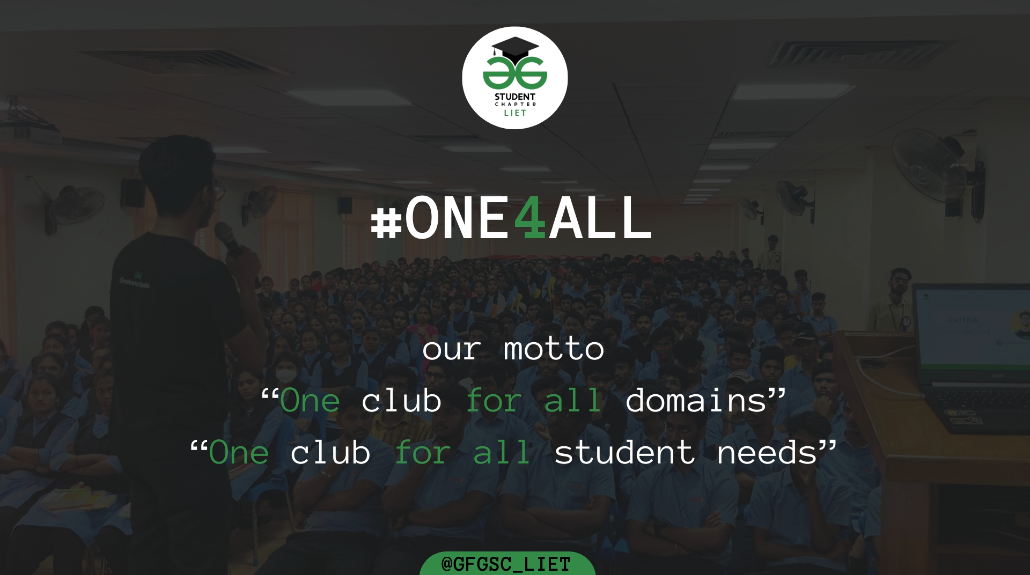
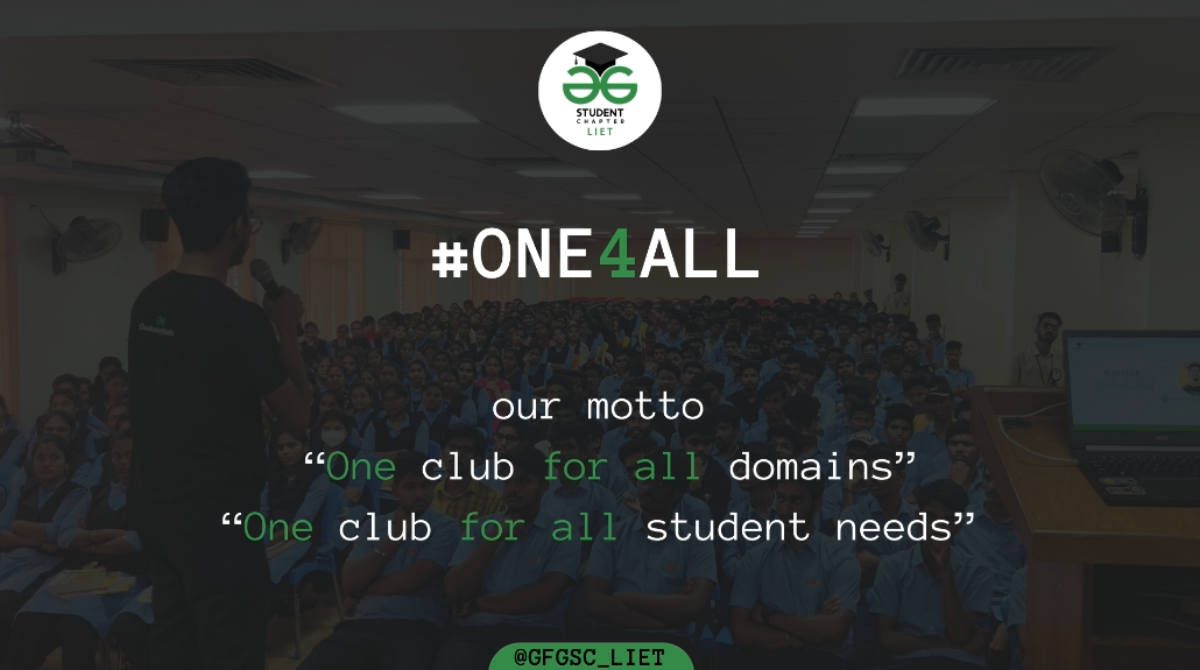
updated

diff --git a/index.html b/index.html
@@ -28,7 +28,7 @@
 
 
     <div class="dr page">
-        
+
         <!-- Page Header-->
         <header class="section page-header">
             <!-- RD Navbar-->
@@ -48,14 +48,14 @@
                                 <button class="rd-navbar-toggle"
                                     data-rd-navbar-toggle=".rd-navbar-nav-wrap"><span></span></button>
                                 <!-- RD Navbar Brand-->
-                                <div class="rd-navbar-brand"><a class="brand" href="#"><img
-                                            src="./images/gfg_logo.png" alt=""  /></a>
+                                <div class="rd-navbar-brand"><a class="brand" href="#"><img src="./images/gfg_logo.png"
+                                            alt="" /></a>
                                 </div>
                             </div>
                             <div class="rd-navbar-main-element">
                                 <div class="rd-navbar-nav-wrap">
                                     <!-- RD Navbar Share-->
-                                    
+
                                     <ul class="rd-navbar-nav">
                                         <li class="rd-nav-item active"><a class="rd-nav-link" href="#">Home</a></li>
                                         <li class="rd-nav-item"><a class="rd-nav-link" href="./events.html">Events</a>
@@ -72,26 +72,7 @@
             </div>
         </header>
 
-        <div id="carouselExampleAutoplaying" class="carousel slide" data-bs-ride="carousel">
-            <div class="carousel-inner">
-                <div class="carousel-item active">
-                    <img src="./images/gfg.png" class="d-block " height="635px" width="100%" alt="...">
-                </div>
-                <div class="carousel-item">
-                    <img src="./images/carousel1.jpg" class="d-block" height="635px" width="100%" alt="...">
-                </div>
-            </div>
-            <button class="carousel-control-prev" type="button" data-bs-target="#carouselExampleAutoplaying"
-                data-bs-slide="prev">
-                <span class="carousel-control-prev-icon" aria-hidden="true"></span>
-                <span class="visually-hidden">Previous</span>
-            </button>
-            <button class="carousel-control-next" type="button" data-bs-target="#carouselExampleAutoplaying"
-                data-bs-slide="next">
-                <span class="carousel-control-next-icon" aria-hidden="true"></span>
-                <span class="visually-hidden">Next</span>
-            </button>
-        </div>
+        <img src="./images/gfg.png" style="" class="d-block " width="100%" height="660px" alt="...">
 
 
         <!--about-->
@@ -279,7 +260,8 @@
 
         <footer class="text-center text-lg-start text-dark " style="background-color: #fff">
 
-            <section class="d-flex justify-content-between p-4 text-white text-center" style="background-color: #1f1f1f">
+            <section class="d-flex justify-content-between p-4 text-white text-center"
+                style="background-color: #1f1f1f">
                 <div class="me-5">
                     <span>Made with ❤ By GFGSC-LIET</span>
                 </div>
